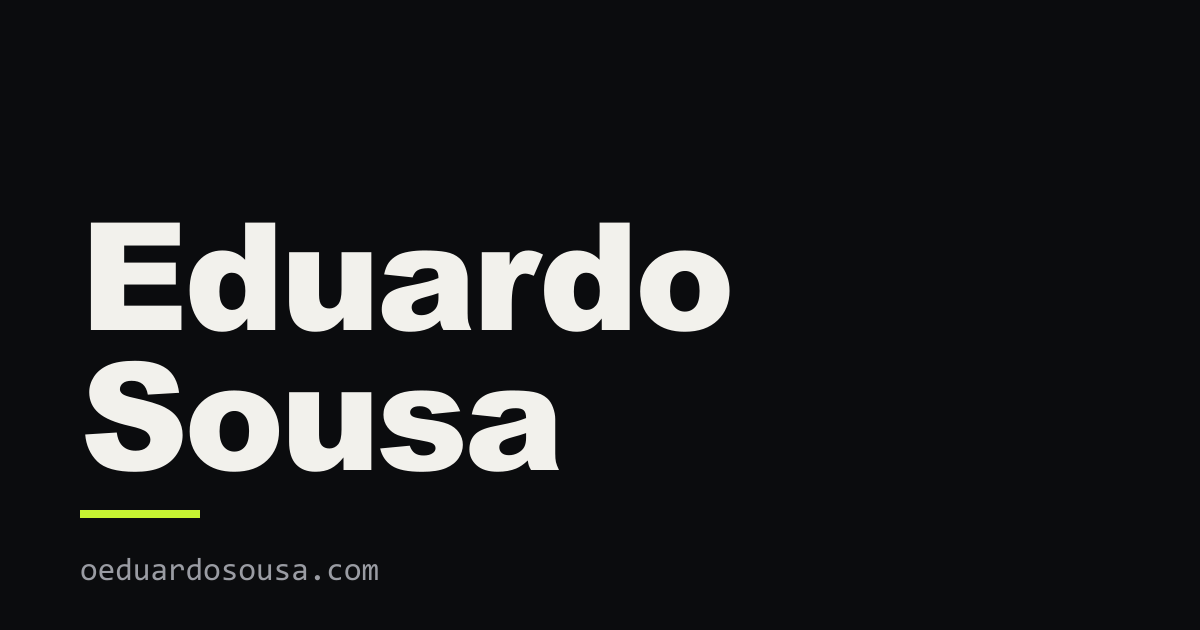
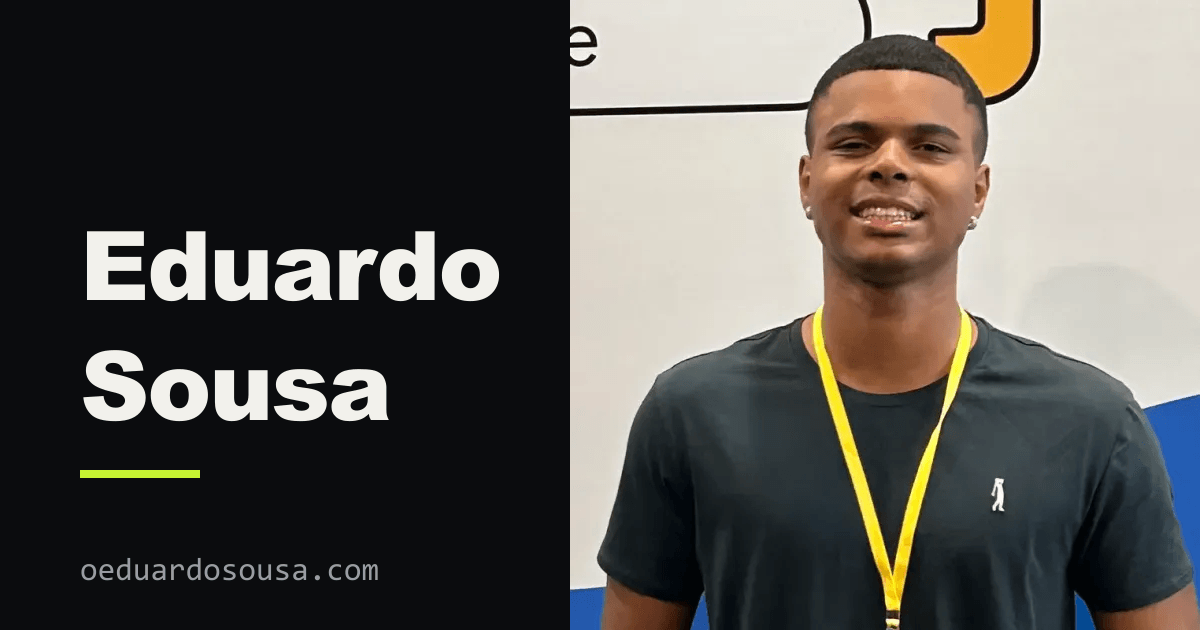
Add portrait, project screenshots and live links; show portrait in preview card
Portrait cropped to head and shoulders (badge and sponsor logos out). Original kept
outside public/ in git-ignored source-assets/. Five projects published with live links.

diff --git a/src/styles/base.css b/src/styles/base.css
@@ -234,8 +234,11 @@ h2 { margin-bottom: var(--space-8); }
 }
 
 /* About: heading left, text offset right. */
+.about__photo { margin-bottom: var(--space-8); width: min(100%, 320px); border: var(--border); border-radius: var(--radius-md); overflow: hidden; }
+.about__photo img { width: 100%; height: auto; aspect-ratio: 1; object-fit: cover; }
 @media (min-width: 960px) {
-  .about__title { grid-column: 1 / span 5; margin-bottom: 0; }
+  .about__side { grid-column: 1 / span 5; }
+  .about__title { margin-bottom: var(--space-8); }
   .about__body { grid-column: 7 / span 5; }
 }
 
